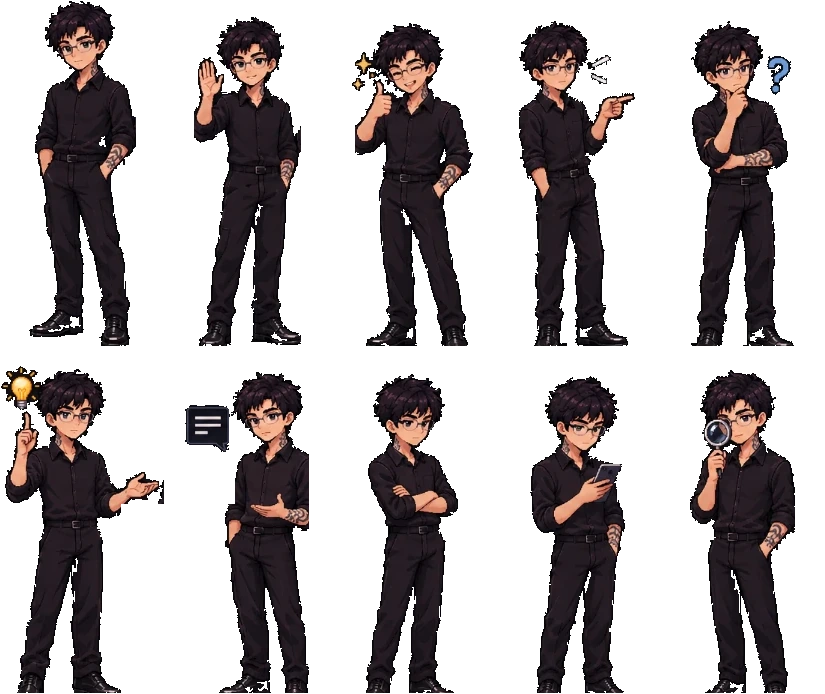
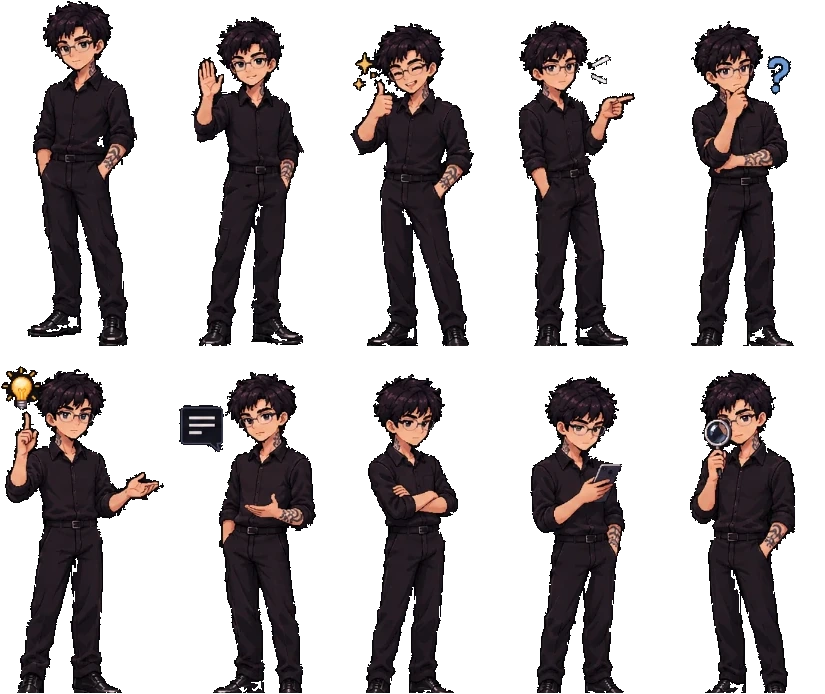
Assistente: movimento suave e poses sem corte

diff --git a/index.html b/index.html
@@ -43,8 +43,8 @@
 <script src="js/videos.js?v=9" defer></script>
 <script type="application/ld+json">{"@context": "https://schema.org", "@graph": [{"@type": "WebSite", "@id": "https://bluerose-store.com/#site", "url": "https://bluerose-store.com/", "name": "Blue Rose Express", "inLanguage": "pt-BR", "alternateName": ["BLUE ROSE", "Blue Rose", "bluerose-store"]}, {"@type": "ProfessionalService", "@id": "https://bluerose-store.com/#blue-rose", "openingHoursSpecification": [{"@type": "OpeningHoursSpecification", "dayOfWeek": ["Monday", "Tuesday", "Wednesday", "Thursday", "Friday"], "opens": "08:00", "closes": "18:00"}], "name": "Blue Rose Express", "url": "https://bluerose-store.com/", "sameAs": ["https://www.instagram.com/blue.rose.express/", "https://www.instagram.com/cau4caetano/"], "image": "https://bluerose-store.com/img/og-blue-rose.jpg", "logo": "https://bluerose-store.com/img/favicon-512.png", "description": "Sistemas de gestão prontos (CRM, agenda, jurídico, financeiro e estoque), automações com IA e software sob medida para pequenas e médias empresas. Teste no navegador e alugue a partir de R$ 79/mês.", "areaServed": "BR", "knowsAbout": ["Software de gestão", "ERP", "CRM", "Automação de WhatsApp", "Agentes de IA", "Desenvolvimento web"], "hasOfferCatalog": {"@type": "OfferCatalog", "name": "BLUE ROSE", "itemListElement": [{"@type": "Offer", "itemOffered": {"@type": "SoftwareApplication", "name": "Nexo Gestão", "applicationCategory": "BusinessApplication", "operatingSystem": "Web", "description": "Estoque, compras e vendas. Para distribuidoras, lojas e mercados."}, "priceSpecification": {"@type": "UnitPriceSpecification", "priceCurrency": "BRL", "price": 129, "unitCode": "MON"}}, {"@type": "Offer", "itemOffered": {"@type": "SoftwareApplication", "name": "Nexo Jurídico", "applicationCategory": "BusinessApplication", "operatingSystem": "Web", "description": "Processos e prazos. Para escritórios de advocacia."}, "priceSpecification": {"@type": "UnitPriceSpecification", "priceCurrency": "BRL", "price": 149, "unitCode": "MON"}}, {"@type": "Offer", "itemOffered": {"@type": "SoftwareApplication", "name": "Nexo Financeiro", "applicationCategory": "BusinessApplication", "operatingSystem": "Web", "description": "Financeiro e ordem de serviço. Para assistências técnicas, oficinas e prestadores."}, "priceSpecification": {"@type": "UnitPriceSpecification", "priceCurrency": "BRL", "price": 109, "unitCode": "MON"}}, {"@type": "Offer", "itemOffered": {"@type": "SoftwareApplication", "name": "Nexo Agenda", "applicationCategory": "BusinessApplication", "operatingSystem": "Web", "description": "Agenda e atendimento. Para salões, estética, barbearias e clínicas."}, "priceSpecification": {"@type": "UnitPriceSpecification", "priceCurrency": "BRL", "price": 79, "unitCode": "MON"}}, {"@type": "Offer", "itemOffered": {"@type": "SoftwareApplication", "name": "Nexo CRM", "applicationCategory": "BusinessApplication", "operatingSystem": "Web", "description": "Funil de vendas. Para equipes comerciais de qualquer ramo."}, "priceSpecification": {"@type": "UnitPriceSpecification", "priceCurrency": "BRL", "price": 99, "unitCode": "MON"}}, {"@type": "Offer", "itemOffered": {"@type": "Service", "name": "Presença", "description": "Para aparecer no Google e começar a receber pedidos."}, "priceSpecification": {"@type": "PriceSpecification", "priceCurrency": "BRL", "price": 690}}, {"@type": "Offer", "itemOffered": {"@type": "Service", "name": "Completo", "description": "O site que trabalha por você: agenda, orçamento e prova social."}, "priceSpecification": {"@type": "PriceSpecification", "priceCurrency": "BRL", "price": 1490}}, {"@type": "Offer", "itemOffered": {"@type": "Service", "name": "Completo + Automação", "description": "O site e o WhatsApp atendendo juntos, 24 horas."}, "priceSpecification": {"@type": "PriceSpecification", "priceCurrency": "BRL", "price": 2290}}, {"@type": "Offer", "itemOffered": {"@type": "Service", "name": "Sistemas e ERP", "description": "ERP sob medida: estoque, vendas, agenda e financeiro."}, "priceSpecification": {"@type": "PriceSpecification", "priceCurrency": "BRL", "minPrice": 2000}}, {"@type": "Offer", "itemOffered": {"@type": "Service", "name": "Automação de WhatsApp"}, "priceSpecification": {"@type": "PriceSpecification", "priceCurrency": "BRL", "price": 890}}, {"@type": "Offer", "itemOffered": {"@type": "Service", "name": "Site por assinatura"}, "priceSpecification": {"@type": "UnitPriceSpecification", "priceCurrency": "BRL", "price": 89, "unitCode": "MON"}}, {"@type": "Offer", "itemOffered": {"@type": "Service", "name": "Automação de WhatsApp por assinatura"}, "priceSpecification": {"@type": "UnitPriceSpecification", "priceCurrency": "BRL", "price": 199, "unitCode": "MON"}}, {"@type": "Offer", "itemOffered": {"@type": "Service", "name": "ERP por assinatura"}, "priceSpecification": {"@type": "UnitPriceSpecification", "priceCurrency": "BRL", "minPrice": 299, "unitCode": "MON"}}]}, "alternateName": ["BLUE ROSE", "Blue Rose", "bluerose-store"]}, {"@type": "FAQPage", "inLanguage": "pt-BR", "mainEntity": [{"@type": "Question", "name": "Posso testar antes de contratar?", "acceptedAnswer": {"@type": "Answer", "text": "Sim. Os onze sistemas da Linha Nexo abrem no navegador com dados de exemplo, sem cadastro. Depois, você pode testar 7 dias grátis com os seus dados e a sua equipe."}}, {"@type": "Question", "name": "Qual a diferença entre o Básico e o Pro?", "acceptedAnswer": {"@type": "Answer", "text": "Os sistemas são por assinatura, sem entrada e sem fidelidade. O Básico vale para você e mais 5 pessoas da equipe. O Pro custa R$ 60 a mais por mês e libera a equipe sem limite, o histórico de quem fez o quê e até 10 empresas. Indicando 3 pessoas que assinem, você ganha 1 mês do Pro pagando o Básico."}}, {"@type": "Question", "name": "Vocês levam os dados das minhas planilhas?", "acceptedAnswer": {"@type": "Answer", "text": "Sim. Nos sistemas prontos, você mesmo sobe as planilhas do Excel em Importar planilha e o sistema preenche nomes, datas, horários, valores e fotos sozinho, com vídeo tutorial de cada passo. Nos sistemas feitos sob medida, nós importamos e testamos com você antes de entregar."}}, {"@type": "Question", "name": "Funciona no celular?", "acceptedAnswer": {"@type": "Answer", "text": "Sim. Todos os sistemas funcionam no computador e no celular. Dá para usar pelo navegador ou instalar como aplicativo: no computador ele ganha ícone na área de trabalho e abre em janela própria. Os dados ficam salvos na nuvem e aparecem em qualquer aparelho."}}, {"@type": "Question", "name": "A automação manda mensagem sozinha para meus clientes?", "acceptedAnswer": {"@type": "Answer", "text": "Só dentro das regras que você aprovar, como responder quem chamou ou lembrar um PIX pendente. Você decide o que ela pode dizer."}}, {"@type": "Question", "name": "Preciso trocar de número de WhatsApp?", "acceptedAnswer": {"@type": "Answer", "text": "Não. A automação funciona com o número que você já usa no negócio, sem linha nova e sem mexer no que já funciona."}}, {"@type": "Question", "name": "Posso pedir mudanças depois de pronto?", "acceptedAnswer": {"@type": "Answer", "text": "Cada projeto inclui rodadas de ajuste. Depois disso, o ajuste avulso custa R$ 70 por hora, ou entra no plano de cuidado. Recursos novos são orçados por escrito antes."}}, {"@type": "Question", "name": "Como funciona o pagamento?", "acceptedAnswer": {"@type": "Answer", "text": "Sistemas prontos são por assinatura mensal, sem entrada, com hospedagem, atualizações e suporte inclusos (sem fidelidade). Sistemas e ERPs sob medida têm preço fechado para criar, a partir de R$ 2.000, com metade para começar e metade na entrega. Sites e automações você escolhe: pagamento único (metade para começar e metade na entrega, ou em até 6x no cartão) ou assinatura mensal sem entrada e sem fidelidade. Os planos de preço fixo você contrata aqui no site, pelo Mercado Pago."}}]}]}</script>
 <script src="js/conta.js?v=9" defer></script>
-<link rel="stylesheet" href="css/assistente.css?v=3">
-<script src="js/assistente.js?v=12" defer></script>
+<link rel="stylesheet" href="css/assistente.css?v=4">
+<script src="js/assistente.js?v=13" defer></script>
 <script src="js/cookies.js?v=2" defer></script>
 <script src="js/inicio.js?v=5" defer></script>
 </head>

diff --git a/js/assistente.js b/js/assistente.js
@@ -3,8 +3,8 @@
  *
  * Partes:
  *   CharacterAnimator                   desenha o personagem num <canvas> a partir de img/assistente-pessoa.webp
- *                                       (10 poses do dono, sem redesenho): troca de pose conforme a conversa
- *                                       e respiração (tronco e cabeça sobem 1 pixel).
+ *                                       (10 poses do dono, sem redesenho): uma pose por situação, movimento
+ *                                       contínuo e suave (respiração, aceno, pensar, falar, pulinho) e troca suave.
  *   AssistantKnowledge                  dúvidas e respostas prontas de cada parte do site, em
  *                                       js/assistente-dados.json (gerado do próprio site; nada é inventado).
  *   VirtualAssistant / AssistantChat    balão que muda de fala conforme a página e a seção na tela,
@@ -18,9 +18,9 @@
   window.__assistenteBR = true;
 
   var CFG = {
-    sprite: 'img/assistente-pessoa.webp?v=1',
+    sprite: 'img/assistente-pessoa.webp?v=2',
     dados: 'js/assistente-dados.json?v=8',
-    W: 165, H: 347, MARGEM: 3,           // tamanho de cada pose na folha; margem para a respiração
+    W: 165, H: 347, MARGEM: 20,          // tamanho de cada pose na folha; folga (metade em cima, metade embaixo) para o pulinho
   };
   var reduzMov = window.matchMedia && window.matchMedia('(prefers-reduced-motion: reduce)');
   var semMovimento = function () { return !!(reduzMov && reduzMov.matches); };
@@ -35,40 +35,55 @@
   // folha img/assistente-pessoa.webp (scratchpad/iaass/montar_preto.py): poses do dono recortadas, 5 por linha, sem redesenho
   var POSES = ['padrao', 'ola', 'joia', 'apontando', 'duvida', 'ideia', 'explicando', 'bracos', 'celular', 'lupa'];
   var CINTURA = {'padrao': 159, 'ola': 168, 'joia': 171, 'apontando': 170, 'duvida': 170, 'ideia': 169, 'explicando': 172, 'bracos': 173, 'celular': 174, 'lupa': 171};     // linha do cinto de cada pose: dali para cima respira
-  // estado da conversa -> poses em sequência (cada uma ~1,2 s)
+  // estado da conversa -> [pose, movimento]: uma pose por situação; o movimento é contínuo e suave
   var ESTADOS = {
-    idle:      ['padrao'],
-    minimized: ['padrao'],
-    greeting:  ['ola'],
-    listening: ['bracos'],
-    thinking:  ['duvida', 'celular', 'lupa'],
-    explaining:['explicando', 'apontando'],
-    idea:      ['ideia'],
-    confident: ['bracos'],
-    success:   ['joia'],
-    error:     ['duvida'],
+    idle:      ['padrao', 'calmo'],
+    minimized: ['padrao', 'calmo'],
+    greeting:  ['ola', 'aceno'],
+    listening: ['padrao', 'calmo'],
+    thinking:  ['duvida', 'pensa'],
+    explaining:['explicando', 'fala'],
+    idea:      ['ideia', 'ideia'],
+    confident: ['bracos', 'calmo'],
+    success:   ['joia', 'pulo'],
+    error:     ['duvida', 'nega'],
   };
+  var suave = function (x) { return x <= 0 ? 0 : x >= 1 ? 1 : x * x * (3 - 2 * x); };
+  // respiração (o tronco sobe), aceno, cabeça pensando, aceno de cabeça ao falar, pulinho e um "não" curto
+  function movimento(mov, t, dt) {
+    var r = { dx: 0, dy: 0, sobe: 1.3 * (1 - Math.cos(2 * Math.PI * t / 3600)) / 2, ang: 0 };
+    if (mov === 'aceno') r.ang = Math.sin(dt / 190) * 1.6 * (1 - suave((dt - 1400) / 600));
+    else if (mov === 'pensa') r.ang = Math.sin(t / 1500) * 0.9;
+    else if (mov === 'fala') r.sobe += 0.9 * Math.max(0, Math.sin(dt / 230));
+    else if (mov === 'pulo') r.dy = -7 * Math.sin(Math.PI * Math.min(dt / 460, 1));
+    else if (mov === 'ideia') r.dy = -4 * Math.sin(Math.PI * Math.min(dt / 360, 1));
+    else if (mov === 'nega') r.dx = 2 * Math.sin(dt / 45) * Math.max(0, 1 - dt / 520);
+    return r;
+  }
 
   function CharacterAnimator(canvas, folha) {
     this.cv = canvas;
     this.ctx = canvas.getContext('2d');
-    this.ctx.imageSmoothingEnabled = false;
     this.folha = folha;
     this.estado = 'idle';
+    this.atual = ESTADOS.idle;
+    this.antes = null;
+    this.tTroca = 0;
     this.inicioEstado = 0;
-    this.ultimaChave = '';
     this.rodando = false;
     var self = this;
     this.passo = function (t) { self.quadro(t); };
     document.addEventListener('visibilitychange', function () { document.hidden ? self.parar() : self.iniciar(); });
-    if (reduzMov && reduzMov.addEventListener) reduzMov.addEventListener('change', function () { self.ultimaChave = ''; self.desenharAgora(); });
+    if (reduzMov && reduzMov.addEventListener) reduzMov.addEventListener('change', function () { self.desenharAgora(); });
   }
 
   CharacterAnimator.prototype.definir = function (estado) {
     if (!ESTADOS[estado]) estado = 'idle';
+    var novo = ESTADOS[estado], agora = performance.now();
+    if (novo[0] !== this.atual[0]) { this.antes = this.atual[0]; this.tTroca = agora; }
+    if (novo[0] !== this.atual[0] || novo[1] !== this.atual[1]) this.inicioEstado = agora;
+    this.atual = novo;
     this.estado = estado;
-    this.inicioEstado = performance.now();
-    this.ultimaChave = '';
     this.cv.setAttribute('data-estado', estado);
     this.desenharAgora();
   };
@@ -84,19 +99,27 @@
   };
   CharacterAnimator.prototype.desenharAgora = function () { this.quadro(performance.now(), true); };
 
+  // uma pose: pernas paradas; tronco e cabeça sobem (respiração) e giram no cinto
+  CharacterAnimator.prototype.pose = function (nome, alfa, m, entra) {
+    var W = CFG.W, H = CFG.H, i = POSES.indexOf(nome), sx = (i % 5) * W, sy = Math.floor(i / 5) * H, c = CINTURA[nome];
+    var ctx = this.ctx, x = m.dx, y = CFG.MARGEM / 2 + m.dy + entra;
+    ctx.globalAlpha = alfa;
+    ctx.drawImage(this.folha, sx, sy + c - 2, W, H - c + 2, x, y + c - 2, W, H - c + 2);
+    ctx.save(); ctx.translate(x + W / 2, y + c); ctx.rotate(m.ang * Math.PI / 180);
+    ctx.drawImage(this.folha, sx, sy, W, c, -W / 2, -c - m.sobe, W, c);
+    ctx.restore();
+  };
+
   CharacterAnimator.prototype.quadro = function (t, forcar) {
     if (this.rodando && !forcar) this.raf = requestAnimationFrame(this.passo);
-    var seq = ESTADOS[this.estado], parado = semMovimento();
-    var pose = parado ? seq[0] : seq[Math.floor((t - this.inicioEstado) / 1200) % seq.length];
-    var respira = !parado && (t % 2600) < 1100 ? 1 : 0;      // tronco e cabeça sobem 1 pixel em parte do ciclo
-    var chave = pose + respira;
-    if (chave === this.ultimaChave) return;
-    this.ultimaChave = chave;
-    var W = CFG.W, H = CFG.H, i = POSES.indexOf(pose), sx = (i % 5) * W, sy = Math.floor(i / 5) * H, c = CINTURA[pose], oy = CFG.MARGEM;
-    var ctx = this.ctx;
-    ctx.clearRect(0, 0, this.cv.width, this.cv.height);
-    ctx.drawImage(this.folha, sx, sy + c - 1, W, H - c + 1, 0, oy + c - 1, W, H - c + 1);   // pernas paradas (com a linha do cinto)
-    ctx.drawImage(this.folha, sx, sy, W, c, 0, oy - respira, W, c);                         // tronco e cabeça
+    var parado = semMovimento();
+    var m = parado ? { dx: 0, dy: 0, sobe: 0, ang: 0 } : movimento(this.atual[1], t, t - this.inicioEstado);
+    var k = this.antes && !parado ? suave((t - this.tTroca) / 280) : 1;   // troca de pose suave (uma some, a outra aparece)
+    if (k >= 1) this.antes = null;
+    this.ctx.clearRect(0, 0, this.cv.width, this.cv.height);
+    if (k < 1) this.pose(this.antes, 1 - k, m, 0);
+    this.pose(this.atual[0], k, m, (1 - k) * 3);
+    this.ctx.globalAlpha = 1;
   };
 
   /* ===================================================================== */
@@ -314,7 +337,7 @@
     });
     this.falaTs.push(setTimeout(function () { if (self.anim) self.anim.definir(parado()); }, total));
   };
-  var SEQUENCIAS = { explaining: ['explaining', 'idea'], idea: ['idea', 'explaining', 'idea'], confident: ['confident', 'idea'] };
+  var SEQUENCIAS = {};   // uma pose por fala (sem ficar trocando)
 
   VirtualAssistant.prototype.reagir = function () { /* passar o mouse só levanta o personagem (CSS); não troca a pose */ };
 

diff --git a/demos/sistemas/base/assistente-ia.js b/demos/sistemas/base/assistente-ia.js
@@ -1,42 +1,70 @@
-// Personagem do Assistente IA (camisa preta; poses do dono em assistente-ia.webp, sem redesenho): troca de pose por estado e respira (o tronco sobe 1 px).
-// Gerado por scratchpad/iaass/montar_preto.py: W/H da célula, ordem das poses (5 por linha) e a linha da cintura de cada uma.
-const W = 165, H = 347, POR_LINHA = 5;
+// Personagem do Assistente IA (camisa preta; poses do dono em assistente-ia.webp, sem redesenho).
+// Uma pose por situação; o movimento é contínuo e suave: respiração, aceno, cabeça pensando, aceno de cabeça ao falar,
+// pulinho ao dar certo e um "não" curto no erro. Troca de pose só quando algo acontece, com transição suave.
+// Folha gerada por scratchpad/iaass/montar_preto.py: W/H da célula, ordem das poses (5 por linha) e a linha do cinto de cada uma.
+const W = 165, H = 347, POR_LINHA = 5, M = 10; // M: folga em cima e embaixo para o pulinho
 const POSES = ['padrao', 'ola', 'joia', 'apontando', 'duvida', 'ideia', 'explicando', 'bracos', 'celular', 'lupa'];
 const CINTURA = { padrao: 159, ola: 168, joia: 171, apontando: 170, duvida: 170, ideia: 169, explicando: 172, bracos: 173, celular: 174, lupa: 171 };
 const ESTADOS = {
-  parado: ['padrao'], ola: ['ola', 'joia'], ouvindo: ['padrao', 'bracos'],
-  pensando: ['duvida', 'celular', 'lupa'], explicando: ['explicando', 'ideia', 'apontando'], sucesso: ['joia'],
-  naosei: ['duvida'], negativo: ['bracos'], pausa: ['padrao'],
-  tchau: ['ola'],
+  parado: ['padrao', 'calmo'], ouvindo: ['padrao', 'calmo'], ola: ['ola', 'aceno'], tchau: ['ola', 'aceno'],
+  pensando: ['duvida', 'pensa'], explicando: ['explicando', 'fala'], ideia: ['ideia', 'ideia'],
+  sucesso: ['joia', 'pulo'], naosei: ['duvida', 'nega'], negativo: ['bracos', 'nega'], pausa: ['bracos', 'calmo'],
 };
 let folha = null;
-const carregar = () => folha || (folha = new Promise((ok, erro) => { const i = new Image(); i.onload = () => ok(i); i.onerror = erro; i.src = new URL('./assistente-ia.webp?v=3', import.meta.url).href; }));
+const carregar = () => folha || (folha = new Promise((ok, erro) => { const i = new Image(); i.onload = () => ok(i); i.onerror = erro; i.src = new URL('./assistente-ia.webp?v=4', import.meta.url).href; }));
+const suave = (x) => (x <= 0 ? 0 : x >= 1 ? 1 : x * x * (3 - 2 * x));
 
-/** Põe o personagem dentro de `el` e devolve { estado(nome, depois?), parar() }. `depois` volta a um estado após ms. */
+/** Movimento do instante: deslocamento do corpo (dx, dy), do tronco (sobe) e inclinação do tronco (graus). */
+function movimento(mov, t, dt) {
+  const r = { dx: 0, dy: 0, sobe: 1.3 * (1 - Math.cos((2 * Math.PI * t) / 3600)) / 2, ang: 0 };
+  if (mov === 'aceno') r.ang = Math.sin(dt / 190) * 1.6 * (1 - suave((dt - 1400) / 600));
+  else if (mov === 'pensa') r.ang = Math.sin(t / 1500) * 0.9;
+  else if (mov === 'fala') r.sobe += 0.9 * Math.max(0, Math.sin(dt / 230));
+  else if (mov === 'pulo') r.dy = -7 * Math.sin(Math.PI * Math.min(dt / 460, 1));
+  else if (mov === 'ideia') r.dy = -4 * Math.sin(Math.PI * Math.min(dt / 360, 1));
+  else if (mov === 'nega') r.dx = 2 * Math.sin(dt / 45) * Math.max(0, 1 - dt / 520);
+  return r;
+}
+
+/** Põe o personagem dentro de `el` e devolve { estado(nome, depois?, proximo?), parar() }. `depois` volta a outro estado após ms. */
 export function personagemIA(el, inicial = 'ola') {
   const cv = document.createElement('canvas');
-  cv.width = W; cv.height = H; cv.className = 'ia-boneco'; cv.setAttribute('role', 'img'); cv.setAttribute('aria-label', 'Assistente virtual');
+  cv.width = W; cv.height = H + 2 * M; cv.className = 'ia-boneco'; cv.setAttribute('role', 'img'); cv.setAttribute('aria-label', 'Assistente virtual');
   el.appendChild(cv);
-  const ctx = cv.getContext('2d'); ctx.imageSmoothingEnabled = false;
+  const ctx = cv.getContext('2d');
   const calmo = matchMedia('(prefers-reduced-motion: reduce)').matches;
-  let seq = ESTADOS[inicial] || ESTADOS.parado, t0 = performance.now(), volta = null, raf = 0, ultimo = '';
-  const desenhar = (agora) => {
-    if (!cv.isConnected && performance.now() - t0 > 1000) return; // a janela fechou
+  let atual = ESTADOS[inicial] || ESTADOS.parado, t0 = performance.now(), antes = null, tTroca = 0, volta = null, raf = 0;
+
+  const pose = (img, nome, alfa, m, entra) => {
+    const i = POSES.indexOf(nome), sx = (i % POR_LINHA) * W, sy = Math.floor(i / POR_LINHA) * H, c = CINTURA[nome];
+    const x = m.dx, y = M + m.dy + entra;
+    ctx.globalAlpha = alfa;
+    ctx.drawImage(img, sx, sy + c - 2, W, H - c + 2, x, y + c - 2, W, H - c + 2);   // pernas (paradas)
+    ctx.save(); ctx.translate(x + W / 2, y + c); ctx.rotate((m.ang * Math.PI) / 180);  // tronco e cabeça giram no cinto
+    ctx.drawImage(img, sx, sy, W, c, -W / 2, -c - m.sobe, W, c);
+    ctx.restore();
+  };
+  const desenhar = (t) => {
+    if (!cv.isConnected && t - t0 > 1000) return; // a janela fechou
     raf = requestAnimationFrame(desenhar);
     if (!folha?.pronta) return;
-    const q = Math.floor((agora - t0) / (1000 / 12));          // 12 quadros por segundo
-    const pose = seq[Math.floor(q / 12) % seq.length], respira = !calmo && Math.floor(q / 6) % 2 === 1;
-    const chave = `${pose}${respira}`; if (chave === ultimo) return; ultimo = chave;
-    const i = POSES.indexOf(pose), sx = (i % POR_LINHA) * W, sy = Math.floor(i / POR_LINHA) * H, c = CINTURA[pose];
-    ctx.clearRect(0, 0, W, H);
-    ctx.drawImage(folha.img, sx, sy + c - 1, W, H - c + 1, 0, c - 1, W, H - c + 1); // pernas paradas (com a linha da cintura, para não abrir fresta)
-    ctx.drawImage(folha.img, sx, sy, W, c, 0, respira ? -1 : 0, W, c);         // tronco e cabeça
+    const dt = t - t0, m = calmo ? { dx: 0, dy: 0, sobe: 0, ang: 0 } : movimento(atual[1], t, dt);
+    ctx.clearRect(0, 0, cv.width, cv.height);
+    const k = antes && !calmo ? suave((t - tTroca) / 280) : 1;
+    if (k < 1) pose(folha.img, antes, 1 - k, m, 0);
+    pose(folha.img, atual[0], k, m, (1 - k) * 3);   // a nova entra subindo 3 px enquanto aparece
+    ctx.globalAlpha = 1;
   };
   carregar().then((img) => { folha.img = img; folha.pronta = true; }, () => { cv.remove(); });
   raf = requestAnimationFrame(desenhar);
   return {
+    atual: inicial,
     estado(nome, depois = 0, proximo = 'parado') {
-      clearTimeout(volta); this.atual = nome; seq = ESTADOS[nome] || ESTADOS.parado; t0 = performance.now(); ultimo = '';
+      clearTimeout(volta);
+      const novo = ESTADOS[nome] || ESTADOS.parado;
+      if (novo[0] !== atual[0]) { antes = atual[0]; tTroca = performance.now(); }
+      if (novo[1] !== atual[1] || novo[0] !== atual[0]) t0 = performance.now();
+      atual = novo; this.atual = nome;
       if (depois) volta = setTimeout(() => this.estado(proximo), depois);
     },
     parar() { cancelAnimationFrame(raf); clearTimeout(volta); },

diff --git a/nexo-farmacia.html b/nexo-farmacia.html
@@ -36,8 +36,8 @@
 <script src="js/videos.js?v=9" defer></script>
 <script src="js/conta.js?v=9" defer></script>
 <script type="application/ld+json">[{"@context": "https://schema.org", "@type": "SoftwareApplication", "name": "Nexo Farmácia", "applicationCategory": "BusinessApplication", "operatingSystem": "Web, Android, iOS (navegador)", "description": "Para drogarias que precisam vender rápido no balcão sem errar em validade, receita e preço, e lembrar o cliente antes do remédio acabar.", "url": "https://bluerose-store.com/nexo-farmacia.html", "image": "https://bluerose-store.com/img/sistemas/farmacia.webp", "offers": [{"@type": "Offer", "price": "149", "priceCurrency": "BRL", "name": "Assinatura mensal (Básico)"}], "publisher": {"@type": "Organization", "name": "Blue Rose Express", "url": "https://bluerose-store.com/"}}, {"@context": "https://schema.org", "@type": "FAQPage", "mainEntity": [{"@type": "Question", "name": "Controla remédio controlado e antimicrobiano?", "acceptedAnswer": {"@type": "Answer", "text": "Sim. Produtos das listas da Portaria 344/98 e antimicrobianos só saem no caixa com a receita registrada: tipo de receita, notificação, prescritor, paciente, comprador e lote. O sistema recusa receita vencida (30 dias, ou 10 para antimicrobianos) e monta o livro de controlados do mês, com planilha para conferir e transmitir no SNGPC da Anvisa quando a farmácia for obrigada."}}, {"@type": "Question", "name": "Emite cupom fiscal (NFC-e)?", "acceptedAnswer": {"@type": "Answer", "text": "Sim, pela Focus NFe, com o certificado digital e o CSC da sua farmácia. Os medicamentos saem com o código da Anvisa, o PMC, o lote e a validade, como a SEFAZ exige. Começamos em homologação e só passamos para produção depois do primeiro cupom autorizado."}}, {"@type": "Question", "name": "Controla lote e validade?", "acceptedAnswer": {"@type": "Answer", "text": "Sim. Cada entrada tem lote, fabricação e validade (vêm sozinhos do XML da nota da distribuidora). O caixa vende primeiro o lote que vence antes, nunca vende lote vencido e o painel avisa o que vence em 30, 60 e 90 dias."}}, {"@type": "Question", "name": "Funciona com leitor de código de barras?", "acceptedAnswer": {"@type": "Answer", "text": "Sim. Qualquer leitor USB que funcione como teclado serve no caixa e no inventário."}}, {"@type": "Question", "name": "Atende convênio, crediário e Farmácia Popular?", "acceptedAnswer": {"@type": "Answer", "text": "Sim. Convênio de empresa com desconto e fechamento mensal com extrato, crediário com limite por cliente e venda com número de autorização do Farmácia Popular (a autorização é feita no sistema autorizador do programa)."}}, {"@type": "Question", "name": "Como funciona o teste de 7 dias?", "acceptedAnswer": {"@type": "Answer", "text": "Crie a conta e use por 7 dias sem pagar e sem cartão. Se gostar, assine e os dados continuam; se não, nada é cobrado."}}]}, {"@context": "https://schema.org", "@type": "BreadcrumbList", "itemListElement": [{"@type": "ListItem", "position": 1, "name": "Início", "item": "https://bluerose-store.com/"}, {"@type": "ListItem", "position": 2, "name": "Sistemas", "item": "https://bluerose-store.com/sistemas.html"}, {"@type": "ListItem", "position": 3, "name": "Nexo Farmácia", "item": "https://bluerose-store.com/nexo-farmacia.html"}]}]</script>
-<link rel="stylesheet" href="css/assistente.css?v=3">
-<script src="js/assistente.js?v=12" defer></script>
+<link rel="stylesheet" href="css/assistente.css?v=4">
+<script src="js/assistente.js?v=13" defer></script>
 <script src="js/cookies.js?v=2" defer></script>
 </head>
 <body>

diff --git a/nexo-juridico.html b/nexo-juridico.html
@@ -36,8 +36,8 @@
 <script src="js/videos.js?v=9" defer></script>
 <script src="js/conta.js?v=9" defer></script>
 <script type="application/ld+json">[{"@context": "https://schema.org", "@type": "SoftwareApplication", "name": "Nexo Jurídico", "applicationCategory": "BusinessApplication", "operatingSystem": "Web, Android, iOS (navegador)", "description": "As intimações do Diário de Justiça Eletrônico chegam sozinhas, com o prazo contado em dias úteis, feriados e recesso forense.", "url": "https://bluerose-store.com/nexo-juridico.html", "image": "https://bluerose-store.com/img/sistemas/juridico.webp", "offers": [{"@type": "Offer", "price": "149", "priceCurrency": "BRL", "name": "Assinatura mensal (Básico)"}], "publisher": {"@type": "Organization", "name": "Blue Rose Express", "url": "https://bluerose-store.com/"}}, {"@context": "https://schema.org", "@type": "FAQPage", "mainEntity": [{"@type": "Question", "name": "De onde vêm as intimações?", "acceptedAnswer": {"@type": "Answer", "text": "Do DJEN, o Diário de Justiça Eletrônico Nacional do CNJ, pela API pública. Você cadastra as OABs e o sistema busca todo dia."}}, {"@type": "Question", "name": "Considera feriados locais?", "acceptedAnswer": {"@type": "Answer", "text": "Os nacionais e o recesso forense já vêm prontos. Os feriados estaduais e municipais da sua comarca não vêm prontos: confira esses dias ao calcular o prazo."}}, {"@type": "Question", "name": "Os dados ficam seguros?", "acceptedAnswer": {"@type": "Answer", "text": "Sim. Na versão na nuvem, cada escritório só vê os próprios dados, com regras de acesso no banco de dados."}}, {"@type": "Question", "name": "Como funciona o teste de 7 dias?", "acceptedAnswer": {"@type": "Answer", "text": "Crie a conta e use por 7 dias sem pagar e sem cartão. Se gostar, assine e os dados continuam; se não, nada é cobrado."}}]}, {"@context": "https://schema.org", "@type": "BreadcrumbList", "itemListElement": [{"@type": "ListItem", "position": 1, "name": "Início", "item": "https://bluerose-store.com/"}, {"@type": "ListItem", "position": 2, "name": "Sistemas", "item": "https://bluerose-store.com/sistemas.html"}, {"@type": "ListItem", "position": 3, "name": "Nexo Jurídico", "item": "https://bluerose-store.com/nexo-juridico.html"}]}]</script>
-<link rel="stylesheet" href="css/assistente.css?v=3">
-<script src="js/assistente.js?v=12" defer></script>
+<link rel="stylesheet" href="css/assistente.css?v=4">
+<script src="js/assistente.js?v=13" defer></script>
 <script src="js/cookies.js?v=2" defer></script>
 </head>
 <body>

diff --git a/nexo-clinica.html b/nexo-clinica.html
@@ -36,8 +36,8 @@
 <script src="js/videos.js?v=9" defer></script>
 <script src="js/conta.js?v=9" defer></script>
 <script type="application/ld+json">[{"@context": "https://schema.org", "@type": "SoftwareApplication", "name": "Nexo Clínica", "applicationCategory": "BusinessApplication", "operatingSystem": "Web, Android, iOS (navegador)", "description": "Agenda por profissional, sala de espera, prontuário eletrônico e faturamento de convênios em lote, no computador e no celular.", "url": "https://bluerose-store.com/nexo-clinica.html", "image": "https://bluerose-store.com/img/sistemas/clinica.webp", "offers": [{"@type": "Offer", "price": "109", "priceCurrency": "BRL", "name": "Assinatura mensal (Básico)"}], "publisher": {"@type": "Organization", "name": "Blue Rose Express", "url": "https://bluerose-store.com/"}}, {"@context": "https://schema.org", "@type": "FAQPage", "mainEntity": [{"@type": "Question", "name": "Emite receita digital com assinatura?", "acceptedAnswer": {"@type": "Answer", "text": "A receita sai impressa para assinar. Assinatura digital com certificado (ICP-Brasil) pode ser orçada à parte."}}, {"@type": "Question", "name": "Envia guias TISS para os convênios?", "acceptedAnswer": {"@type": "Answer", "text": "O sistema organiza as guias e fecha os lotes. O envio eletrônico no padrão TISS para cada operadora é orçado conforme os convênios da clínica."}}, {"@type": "Question", "name": "Os dados dos pacientes ficam seguros?", "acceptedAnswer": {"@type": "Answer", "text": "Sim. Cada clínica só vê os próprios dados, com regras de acesso no banco e cópias de segurança."}}, {"@type": "Question", "name": "Como funciona o teste de 7 dias?", "acceptedAnswer": {"@type": "Answer", "text": "Crie a conta e use por 7 dias sem pagar e sem cartão. Se gostar, assine e os dados continuam; se não, nada é cobrado."}}]}, {"@context": "https://schema.org", "@type": "BreadcrumbList", "itemListElement": [{"@type": "ListItem", "position": 1, "name": "Início", "item": "https://bluerose-store.com/"}, {"@type": "ListItem", "position": 2, "name": "Sistemas", "item": "https://bluerose-store.com/sistemas.html"}, {"@type": "ListItem", "position": 3, "name": "Nexo Clínica", "item": "https://bluerose-store.com/nexo-clinica.html"}]}]</script>
-<link rel="stylesheet" href="css/assistente.css?v=3">
-<script src="js/assistente.js?v=12" defer></script>
+<link rel="stylesheet" href="css/assistente.css?v=4">
+<script src="js/assistente.js?v=13" defer></script>
 <script src="js/cookies.js?v=2" defer></script>
 </head>
 <body>

diff --git a/nexo-imobiliaria.html b/nexo-imobiliaria.html
@@ -36,8 +36,8 @@
 <script src="js/videos.js?v=9" defer></script>
 <script src="js/conta.js?v=9" defer></script>
 <script type="application/ld+json">[{"@context": "https://schema.org", "@type": "SoftwareApplication", "name": "Nexo Imobiliária", "applicationCategory": "BusinessApplication", "operatingSystem": "Web, Android, iOS (navegador)", "description": "Vitrine de imóveis, funil de clientes com imóveis compatíveis, agenda de visitas por corretor, aluguéis e repasses aos proprietários.", "url": "https://bluerose-store.com/nexo-imobiliaria.html", "image": "https://bluerose-store.com/img/sistemas/imobiliaria.webp", "offers": [{"@type": "Offer", "price": "129", "priceCurrency": "BRL", "name": "Assinatura mensal (Básico)"}], "publisher": {"@type": "Organization", "name": "Blue Rose Express", "url": "https://bluerose-store.com/"}}, {"@context": "https://schema.org", "@type": "FAQPage", "mainEntity": [{"@type": "Question", "name": "Publica nos portais (ZAP, Viva Real, OLX)?", "acceptedAnswer": {"@type": "Answer", "text": "O sistema organiza os imóveis e as fichas. A integração por XML com os portais é orçada à parte, conforme os portais que você assina."}}, {"@type": "Question", "name": "Gera boleto de aluguel?", "acceptedAnswer": {"@type": "Answer", "text": "O sistema controla as cobranças. A emissão de boleto ou PIX automático pode ser ligada pelo Mercado Pago ou pelo seu banco."}}, {"@type": "Question", "name": "Tem site para a imobiliária?", "acceptedAnswer": {"@type": "Answer", "text": "Podemos fazer o site com a vitrine de imóveis: a Blue Rose também faz sites."}}, {"@type": "Question", "name": "Como funciona o teste de 7 dias?", "acceptedAnswer": {"@type": "Answer", "text": "Crie a conta e use por 7 dias sem pagar e sem cartão. Se gostar, assine e os dados continuam; se não, nada é cobrado."}}]}, {"@context": "https://schema.org", "@type": "BreadcrumbList", "itemListElement": [{"@type": "ListItem", "position": 1, "name": "Início", "item": "https://bluerose-store.com/"}, {"@type": "ListItem", "position": 2, "name": "Sistemas", "item": "https://bluerose-store.com/sistemas.html"}, {"@type": "ListItem", "position": 3, "name": "Nexo Imobiliária", "item": "https://bluerose-store.com/nexo-imobiliaria.html"}]}]</script>
-<link rel="stylesheet" href="css/assistente.css?v=3">
-<script src="js/assistente.js?v=12" defer></script>
+<link rel="stylesheet" href="css/assistente.css?v=4">
+<script src="js/assistente.js?v=13" defer></script>
 <script src="js/cookies.js?v=2" defer></script>
 </head>
 <body>

diff --git a/nexo-academia.html b/nexo-academia.html
@@ -36,8 +36,8 @@
 <script src="js/videos.js?v=9" defer></script>
 <script src="js/conta.js?v=9" defer></script>
 <script type="application/ld+json">[{"@context": "https://schema.org", "@type": "SoftwareApplication", "name": "Nexo Academia", "applicationCategory": "BusinessApplication", "operatingSystem": "Web, Android, iOS (navegador)", "description": "Check-in na recepção, mensalidades cobradas pelo WhatsApp, aulas com vagas e o alerta de quem sumiu antes que cancele.", "url": "https://bluerose-store.com/nexo-academia.html", "image": "https://bluerose-store.com/img/sistemas/academia.webp", "offers": [{"@type": "Offer", "price": "99", "priceCurrency": "BRL", "name": "Assinatura mensal (Básico)"}], "publisher": {"@type": "Organization", "name": "Blue Rose Express", "url": "https://bluerose-store.com/"}}, {"@context": "https://schema.org", "@type": "FAQPage", "mainEntity": [{"@type": "Question", "name": "Funciona com catraca?", "acceptedAnswer": {"@type": "Answer", "text": "O check-in é feito na recepção pelo sistema. Integração com catraca ou reconhecimento facial é orçada conforme o modelo do equipamento."}}, {"@type": "Question", "name": "Faz cobrança recorrente no cartão?", "acceptedAnswer": {"@type": "Answer", "text": "O sistema controla as mensalidades e a cobrança. A recorrência automática no cartão pode ser ligada pelo Mercado Pago, com a nossa ajuda por e-mail."}}, {"@type": "Question", "name": "O aluno tem aplicativo?", "acceptedAnswer": {"@type": "Answer", "text": "O aluno recebe o treino pelo WhatsApp. Um aplicativo próprio do aluno pode ser orçado à parte."}}, {"@type": "Question", "name": "Como funciona o teste de 7 dias?", "acceptedAnswer": {"@type": "Answer", "text": "Crie a conta e use por 7 dias sem pagar e sem cartão. Se gostar, assine e os dados continuam; se não, nada é cobrado."}}]}, {"@context": "https://schema.org", "@type": "BreadcrumbList", "itemListElement": [{"@type": "ListItem", "position": 1, "name": "Início", "item": "https://bluerose-store.com/"}, {"@type": "ListItem", "position": 2, "name": "Sistemas", "item": "https://bluerose-store.com/sistemas.html"}, {"@type": "ListItem", "position": 3, "name": "Nexo Academia", "item": "https://bluerose-store.com/nexo-academia.html"}]}]</script>
-<link rel="stylesheet" href="css/assistente.css?v=3">
-<script src="js/assistente.js?v=12" defer></script>
+<link rel="stylesheet" href="css/assistente.css?v=4">
+<script src="js/assistente.js?v=13" defer></script>
 <script src="js/cookies.js?v=2" defer></script>
 </head>
 <body>

diff --git a/nexo-gestao.html b/nexo-gestao.html
@@ -36,8 +36,8 @@
 <script src="js/videos.js?v=9" defer></script>
 <script src="js/conta.js?v=9" defer></script>
 <script type="application/ld+json">[{"@context": "https://schema.org", "@type": "SoftwareApplication", "name": "Nexo Gestão", "applicationCategory": "BusinessApplication", "operatingSystem": "Web, Android, iOS (navegador)", "description": "Para distribuidoras, lojas e mercados que precisam saber o que tem no estoque, o que vendeu e o que comprar, sem conferir tudo na mão.", "url": "https://bluerose-store.com/nexo-gestao.html", "image": "https://bluerose-store.com/img/sistemas/gestao.webp", "offers": [{"@type": "Offer", "price": "129", "priceCurrency": "BRL", "name": "Assinatura mensal (Básico)"}], "publisher": {"@type": "Organization", "name": "Blue Rose Express", "url": "https://bluerose-store.com/"}}, {"@context": "https://schema.org", "@type": "FAQPage", "mainEntity": [{"@type": "Question", "name": "Emite nota fiscal?", "acceptedAnswer": {"@type": "Answer", "text": "Sim, NF-e pela Focus NFe. Você contrata a Focus NFe (com o certificado digital da sua empresa) e informa o token nas configurações. Testamos em homologação antes de valer."}}, {"@type": "Question", "name": "Funciona com leitor de código de barras?", "acceptedAnswer": {"@type": "Answer", "text": "Sim. Qualquer leitor USB que funcione como teclado serve na frente de caixa e no inventário."}}, {"@type": "Question", "name": "Posso importar meus produtos?", "acceptedAnswer": {"@type": "Answer", "text": "Sim, pela planilha do Excel: em Importar planilha o sistema reconhece as colunas e preenche tudo sozinho."}}, {"@type": "Question", "name": "Como funciona o teste de 7 dias?", "acceptedAnswer": {"@type": "Answer", "text": "Crie a conta e use por 7 dias sem pagar e sem cartão. Se gostar, assine e os dados continuam; se não, nada é cobrado."}}]}, {"@context": "https://schema.org", "@type": "BreadcrumbList", "itemListElement": [{"@type": "ListItem", "position": 1, "name": "Início", "item": "https://bluerose-store.com/"}, {"@type": "ListItem", "position": 2, "name": "Sistemas", "item": "https://bluerose-store.com/sistemas.html"}, {"@type": "ListItem", "position": 3, "name": "Nexo Gestão", "item": "https://bluerose-store.com/nexo-gestao.html"}]}]</script>
-<link rel="stylesheet" href="css/assistente.css?v=3">
-<script src="js/assistente.js?v=12" defer></script>
+<link rel="stylesheet" href="css/assistente.css?v=4">
+<script src="js/assistente.js?v=13" defer></script>
 <script src="js/cookies.js?v=2" defer></script>
 </head>
 <body>

diff --git a/nexo-restaurante.html b/nexo-restaurante.html
@@ -36,8 +36,8 @@
 <script src="js/videos.js?v=9" defer></script>
 <script src="js/conta.js?v=9" defer></script>
 <script type="application/ld+json">[{"@context": "https://schema.org", "@type": "SoftwareApplication", "name": "Nexo Restaurante", "applicationCategory": "BusinessApplication", "operatingSystem": "Web, Android, iOS (navegador)", "description": "Mapa de mesas, comandas, pedidos do WhatsApp e do iFood no mesmo quadro, tela da cozinha e o custo real de cada prato.", "url": "https://bluerose-store.com/nexo-restaurante.html", "image": "https://bluerose-store.com/img/sistemas/restaurante.webp", "offers": [{"@type": "Offer", "price": "89", "priceCurrency": "BRL", "name": "Assinatura mensal (Básico)"}], "publisher": {"@type": "Organization", "name": "Blue Rose Express", "url": "https://bluerose-store.com/"}}, {"@context": "https://schema.org", "@type": "FAQPage", "mainEntity": [{"@type": "Question", "name": "Recebe os pedidos do iFood sozinho?", "acceptedAnswer": {"@type": "Answer", "text": "Os pedidos do iFood entram no mesmo quadro. A integração automática com a API do iFood é orçada à parte, conforme o cadastro do restaurante."}}, {"@type": "Question", "name": "Emite cupom fiscal (NFC-e)?", "acceptedAnswer": {"@type": "Answer", "text": "A NFC-e pode ser ligada pela Focus NFe, com o certificado do restaurante. O cupom de conferência já sai impresso."}}, {"@type": "Question", "name": "Funciona em tablet para os garçons?", "acceptedAnswer": {"@type": "Answer", "text": "Sim. Funciona no navegador do tablet ou do celular e pode ser instalado como aplicativo."}}, {"@type": "Question", "name": "Como funciona o teste de 7 dias?", "acceptedAnswer": {"@type": "Answer", "text": "Crie a conta e use por 7 dias sem pagar e sem cartão. Se gostar, assine e os dados continuam; se não, nada é cobrado."}}]}, {"@context": "https://schema.org", "@type": "BreadcrumbList", "itemListElement": [{"@type": "ListItem", "position": 1, "name": "Início", "item": "https://bluerose-store.com/"}, {"@type": "ListItem", "position": 2, "name": "Sistemas", "item": "https://bluerose-store.com/sistemas.html"}, {"@type": "ListItem", "position": 3, "name": "Nexo Restaurante", "item": "https://bluerose-store.com/nexo-restaurante.html"}]}]</script>
-<link rel="stylesheet" href="css/assistente.css?v=3">
-<script src="js/assistente.js?v=12" defer></script>
+<link rel="stylesheet" href="css/assistente.css?v=4">
+<script src="js/assistente.js?v=13" defer></script>
 <script src="js/cookies.js?v=2" defer></script>
 </head>
 <body>

diff --git a/nexo-financeiro.html b/nexo-financeiro.html
@@ -36,8 +36,8 @@
 <script src="js/videos.js?v=9" defer></script>
 <script src="js/conta.js?v=9" defer></script>
 <script type="application/ld+json">[{"@context": "https://schema.org", "@type": "SoftwareApplication", "name": "Nexo Financeiro", "applicationCategory": "BusinessApplication", "operatingSystem": "Web, Android, iOS (navegador)", "description": "Contas a pagar e a receber, fluxo de caixa projetado, DRE e conciliação com o banco. E ordem de serviço que já vira receita.", "url": "https://bluerose-store.com/nexo-financeiro.html", "image": "https://bluerose-store.com/img/sistemas/financeiro.webp", "offers": [{"@type": "Offer", "price": "109", "priceCurrency": "BRL", "name": "Assinatura mensal (Básico)"}], "publisher": {"@type": "Organization", "name": "Blue Rose Express", "url": "https://bluerose-store.com/"}}, {"@context": "https://schema.org", "@type": "FAQPage", "mainEntity": [{"@type": "Question", "name": "Substitui o contador?", "acceptedAnswer": {"@type": "Answer", "text": "Não. É o controle gerencial da empresa. O contador continua cuidando de impostos e obrigações, e pode receber os relatórios."}}, {"@type": "Question", "name": "Importa extrato do banco?", "acceptedAnswer": {"@type": "Answer", "text": "Sim, por arquivo CSV (data; descrição; valor), que todos os bancos exportam."}}, {"@type": "Question", "name": "Tem ordem de serviço?", "acceptedAnswer": {"@type": "Answer", "text": "Sim, com orçamento, aprovação, laudo, impressão e faturamento direto para o contas a receber."}}, {"@type": "Question", "name": "Como funciona o teste de 7 dias?", "acceptedAnswer": {"@type": "Answer", "text": "Crie a conta e use por 7 dias sem pagar e sem cartão. Se gostar, assine e os dados continuam; se não, nada é cobrado."}}]}, {"@context": "https://schema.org", "@type": "BreadcrumbList", "itemListElement": [{"@type": "ListItem", "position": 1, "name": "Início", "item": "https://bluerose-store.com/"}, {"@type": "ListItem", "position": 2, "name": "Sistemas", "item": "https://bluerose-store.com/sistemas.html"}, {"@type": "ListItem", "position": 3, "name": "Nexo Financeiro", "item": "https://bluerose-store.com/nexo-financeiro.html"}]}]</script>
-<link rel="stylesheet" href="css/assistente.css?v=3">
-<script src="js/assistente.js?v=12" defer></script>
+<link rel="stylesheet" href="css/assistente.css?v=4">
+<script src="js/assistente.js?v=13" defer></script>
 <script src="js/cookies.js?v=2" defer></script>
 </head>
 <body>

diff --git a/nexo-crm.html b/nexo-crm.html
@@ -36,8 +36,8 @@
 <script src="js/videos.js?v=9" defer></script>
 <script src="js/conta.js?v=9" defer></script>
 <script type="application/ld+json">[{"@context": "https://schema.org", "@type": "SoftwareApplication", "name": "Nexo CRM", "applicationCategory": "BusinessApplication", "operatingSystem": "Web, Android, iOS (navegador)", "description": "Um funil de vendas que mostra quem está parado, o que fazer hoje e quanto vai entrar no mês. Sem pagar por usuário.", "url": "https://bluerose-store.com/nexo-crm.html", "image": "https://bluerose-store.com/img/sistemas/crm.webp", "offers": [{"@type": "Offer", "price": "99", "priceCurrency": "BRL", "name": "Assinatura mensal (Básico)"}], "publisher": {"@type": "Organization", "name": "Blue Rose Express", "url": "https://bluerose-store.com/"}}, {"@context": "https://schema.org", "@type": "FAQPage", "mainEntity": [{"@type": "Question", "name": "Cobra por usuário?", "acceptedAnswer": {"@type": "Answer", "text": "Não. A assinatura é um valor fixo por empresa: no Básico, você e mais 5 pessoas; no Pro, a equipe não tem limite."}}, {"@type": "Question", "name": "Integra com WhatsApp?", "acceptedAnswer": {"@type": "Answer", "text": "Os botões abrem a conversa já com a mensagem pronta. Integração automática com a API oficial do WhatsApp é orçada à parte."}}, {"@type": "Question", "name": "Dá para importar contatos?", "acceptedAnswer": {"@type": "Answer", "text": "Sim, por planilha (CSV)."}}, {"@type": "Question", "name": "Como funciona o teste de 7 dias?", "acceptedAnswer": {"@type": "Answer", "text": "Crie a conta e use por 7 dias sem pagar e sem cartão. Se gostar, assine e os dados continuam; se não, nada é cobrado."}}]}, {"@context": "https://schema.org", "@type": "BreadcrumbList", "itemListElement": [{"@type": "ListItem", "position": 1, "name": "Início", "item": "https://bluerose-store.com/"}, {"@type": "ListItem", "position": 2, "name": "Sistemas", "item": "https://bluerose-store.com/sistemas.html"}, {"@type": "ListItem", "position": 3, "name": "Nexo CRM", "item": "https://bluerose-store.com/nexo-crm.html"}]}]</script>
-<link rel="stylesheet" href="css/assistente.css?v=3">
-<script src="js/assistente.js?v=12" defer></script>
+<link rel="stylesheet" href="css/assistente.css?v=4">
+<script src="js/assistente.js?v=13" defer></script>
 <script src="js/cookies.js?v=2" defer></script>
 </head>
 <body>
